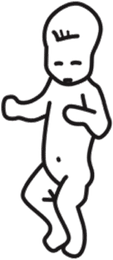
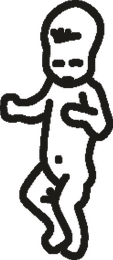
Add files via upload

Changed region(s): [[0.0, 0.0, 1.0, 1.0]]

diff --git a/index.html b/index.html
@@ -24,7 +24,7 @@
 
     --rojo: #A5081E;
     --marron: #8A5A34;
-    --verde: #316C39;
+    --verde: #6F9874;
     --amarillo: #DDDE00;
     --blanco: #FFFFFF;
     --blanco-border: #C9BFA9;
@@ -958,7 +958,7 @@ function roundRectPath(ctx, x, y, w, h, r){
   ctx.closePath();
 }
 
-const COLOR_HEX = { rojo:'#A5081E', verde:'#316C39', amarillo:'#DDDE00', blanco:'#FFFFFF' };
+const COLOR_HEX = { rojo:'#A5081E', verde:'#6F9874', amarillo:'#DDDE00', blanco:'#FFFFFF' };
 const PAPER='#FBF7EF', PAPER2='#F3EDE0', SAGE='#E7EDDD', SAGE2='#DCE6C9', LINE='#E3D9C4', INK='#33302A', INKSOFT='#766F62', MARKC='#C43D3D';
 
 function drawDayCell(ctx, x, y, dateStr, dayNum, entry, pk, cellW){
